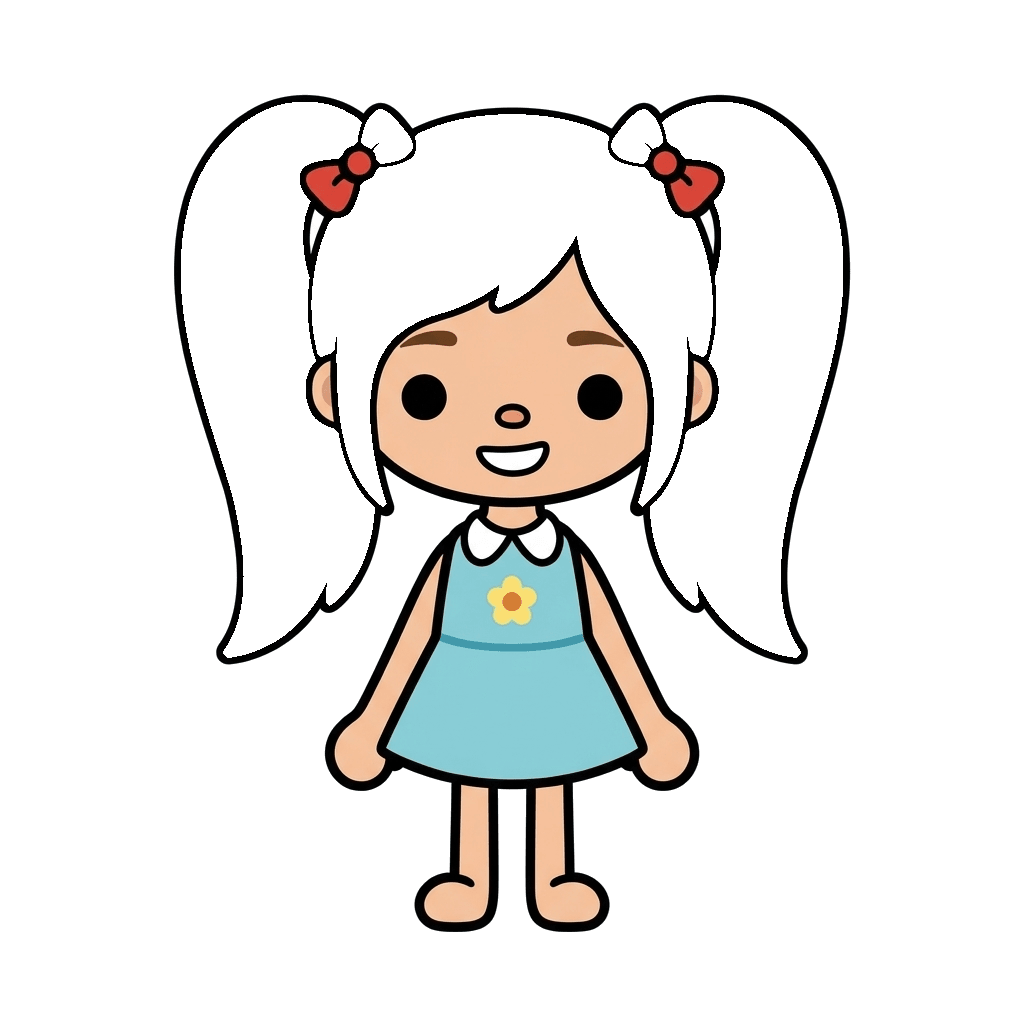
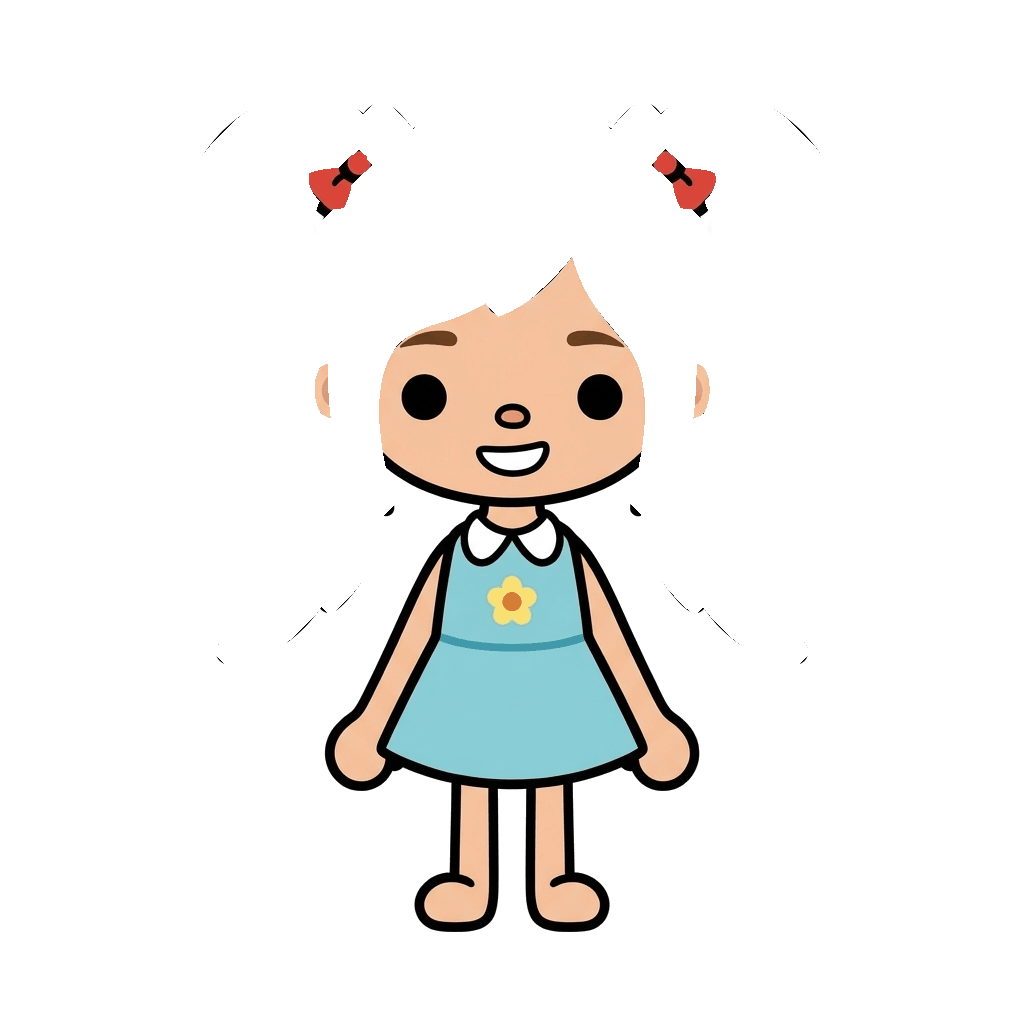
Add swappable outfits, fix outline-removal artifacts from hair extraction
- Extend the color-region segmentation used for hair to clothing: extracts
  a standalone outfit sprite + a bare (no hair, no outfit) base per
  character. Verified mixable across characters (girl's face + boy's
  hoodie + dad's hair composites cleanly).
- Fixes two real bugs the hair/outline dilation had introduced:
  1. Unbounded dilation that only stopped at non-dark pixels would travel
     along the WHOLE drawing's connected outline network (this cartoon
     style draws every stroke as one continuous line), eating unrelated
     details like the entire face outline. Replaced with a fixed, bounded
     dilation pass count (12, measured against this art's ~10px stroke
     width) that grows into any opaque neighbor regardless of color.
  2. Outfit extraction on a character's original (haired) image swept up
     the hair too, since hair is also "non-skin" and connects to the torso
     through the outline network. Now runs on the already-hairless base,
     plus a hard neckline Y-cutoff as a second guard against bleeding into
     head/face outlines.
- Closet modal now has an "옷" (outfit) section alongside hairstyles,
  same pattern: defaults to the character's own outfit, freely swappable.

diff --git a/client/src/pages/MyRoom.jsx b/client/src/pages/MyRoom.jsx
@@ -35,16 +35,6 @@ const HAIRSTYLES = [
   { id: 'hair_dad', name: '짧은 머리', icon: '/assets/hair/hair_dad.png' },
 ];
 
-// Bald version of each character to render under the chosen hairstyle.
-// Boy/baby were already drawn bald, so they use their normal artwork as-is.
-const BALD_BASE = {
-  char_boy: '/assets/toca_boy_v3.png',
-  char_girl: '/assets/hair/bald_girl.png',
-  char_mom: '/assets/hair/bald_mom.png',
-  char_dad: '/assets/hair/bald_dad.png',
-  char_baby: '/assets/toca_baby_v1.png',
-};
-
 // Each character's own natural hairstyle, used as the default when picked.
 const DEFAULT_HAIR = {
   char_boy: 'none',
@@ -52,6 +42,35 @@ const DEFAULT_HAIR = {
   char_mom: 'hair_mom',
   char_dad: 'hair_dad',
   char_baby: 'none',
+};
+
+// Outfits extracted the same way as hairstyles -- each shares the same
+// 1024x1024 framing, so any outfit overlays correctly on any character's bare base.
+const OUTFITS = [
+  { id: 'outfit_girl', name: '원피스', icon: '/assets/outfits/outfit_girl.png' },
+  { id: 'outfit_boy', name: '레인보우 후드티', icon: '/assets/outfits/outfit_boy.png' },
+  { id: 'outfit_mom', name: '멜빵바지', icon: '/assets/outfits/outfit_mom.png' },
+  { id: 'outfit_dad', name: '셔츠와 바지', icon: '/assets/outfits/outfit_dad.png' },
+  { id: 'outfit_baby', name: '오리 잠옷', icon: '/assets/outfits/outfit_baby.png' },
+];
+
+// Bare (no hair, no outfit) version of each character -- the base every
+// avatar renders from, with the chosen outfit and hairstyle layered on top.
+const BARE_BASE = {
+  char_boy: '/assets/outfits/bare_boy.png',
+  char_girl: '/assets/outfits/bare_girl.png',
+  char_mom: '/assets/outfits/bare_mom.png',
+  char_dad: '/assets/outfits/bare_dad.png',
+  char_baby: '/assets/outfits/bare_baby.png',
+};
+
+// Each character's own natural outfit, used as the default when picked.
+const DEFAULT_OUTFIT = {
+  char_boy: 'outfit_boy',
+  char_girl: 'outfit_girl',
+  char_mom: 'outfit_mom',
+  char_dad: 'outfit_dad',
+  char_baby: 'outfit_baby',
 };
 
 // Free starter items (see STORE_CATALOG on the server) laid out as fractions
@@ -88,6 +107,7 @@ const MyRoom = () => {
   const [avatarId, setAvatarId] = useState(null);
   const [avatarPos, setAvatarPos] = useState(null); // { x, y } in room coordinates, like placedItems
   const [hairId, setHairId] = useState(null);
+  const [outfitId, setOutfitId] = useState(null);
   const [equippedIds, setEquippedIds] = useState([]);
   const [dragInventoryItemId, setDragInventoryItemId] = useState(null);
   const [draggingPlaced, setDraggingPlaced] = useState(null); // { id, offsetX, offsetY, startX, startY }
@@ -166,6 +186,7 @@ const MyRoom = () => {
       avatarId,
       avatarPos,
       hairId,
+      outfitId,
       equippedIds,
       ...overrides,
     };
@@ -182,6 +203,7 @@ const MyRoom = () => {
         if (typeof parsed?.avatarId === 'string') setAvatarId(parsed.avatarId);
         if (parsed?.avatarPos && typeof parsed.avatarPos.x === 'number') setAvatarPos(parsed.avatarPos);
         if (typeof parsed?.hairId === 'string') setHairId(parsed.hairId);
+        if (typeof parsed?.outfitId === 'string') setOutfitId(parsed.outfitId);
         if (Array.isArray(parsed?.equippedIds)) setEquippedIds(parsed.equippedIds);
       } catch {
         // ignore
@@ -263,6 +285,12 @@ const MyRoom = () => {
     setHairId(DEFAULT_HAIR[avatarId] || 'none');
   }, [avatarId, hairId]);
 
+  // Default to that character's own natural outfit until the kid picks a different one.
+  useEffect(() => {
+    if (!avatarId || outfitId) return;
+    setOutfitId(DEFAULT_OUTFIT[avatarId] || 'outfit_boy');
+  }, [avatarId, outfitId]);
+
   useEffect(() => {
     if (!draggingPlaced) return;
 
@@ -306,15 +334,22 @@ const MyRoom = () => {
 
   const selectAvatar = (id) => {
     const newHairId = DEFAULT_HAIR[id] || 'none';
+    const newOutfitId = DEFAULT_OUTFIT[id] || 'outfit_boy';
     setAvatarId(id);
     setHairId(newHairId);
+    setOutfitId(newOutfitId);
     setShowAvatarPicker(false);
-    persistLayout({ avatarId: id, hairId: newHairId });
+    persistLayout({ avatarId: id, hairId: newHairId, outfitId: newOutfitId });
   };
 
   const selectHair = (id) => {
     setHairId(id);
     persistLayout({ hairId: id });
+  };
+
+  const selectOutfit = (id) => {
+    setOutfitId(id);
+    persistLayout({ outfitId: id });
   };
 
   const toggleEquipped = (itemId) => {
@@ -466,11 +501,19 @@ const MyRoom = () => {
                 style={{ filter: 'drop-shadow(0 10px 8px rgba(0,0,0,0.25))' }}
               >
                 <img
-                  src={BALD_BASE[avatarId] || avatarItem.icon}
+                  src={BARE_BASE[avatarId] || avatarItem.icon}
                   alt={avatarItem.name}
                   className="absolute inset-0 w-full h-full object-contain select-none pointer-events-none"
                   draggable={false}
                 />
+                {outfitId && (
+                  <img
+                    src={OUTFITS.find((o) => o.id === outfitId)?.icon}
+                    alt=""
+                    className="absolute inset-0 w-full h-full object-contain select-none pointer-events-none"
+                    draggable={false}
+                  />
+                )}
                 {hairId && hairId !== 'none' && (
                   <img
                     src={HAIRSTYLES.find((h) => h.id === hairId)?.icon}
@@ -749,6 +792,23 @@ const MyRoom = () => {
                       <span className="text-3xl">🙂</span>
                     )}
                     <div className="font-bold text-gray-800 text-[10px] text-center">{h.name}</div>
+                  </button>
+                );
+              })}
+            </div>
+
+            <p className="text-sm font-extrabold text-gray-700 mb-2">옷</p>
+            <div className="grid grid-cols-4 gap-3 mb-5">
+              {OUTFITS.map((o) => {
+                const isSelected = outfitId === o.id;
+                return (
+                  <button
+                    key={o.id}
+                    onClick={() => selectOutfit(o.id)}
+                    className={`rounded-2xl border-2 p-2 flex flex-col items-center gap-1 hover:bg-orange-50 transition-colors ${isSelected ? 'border-orange-400 bg-orange-50' : 'border-gray-100'}`}
+                  >
+                    <img src={o.icon} alt={o.name} className="w-12 h-12 object-contain" />
+                    <div className="font-bold text-gray-800 text-[10px] text-center">{o.name}</div>
                   </button>
                 );
               })}
